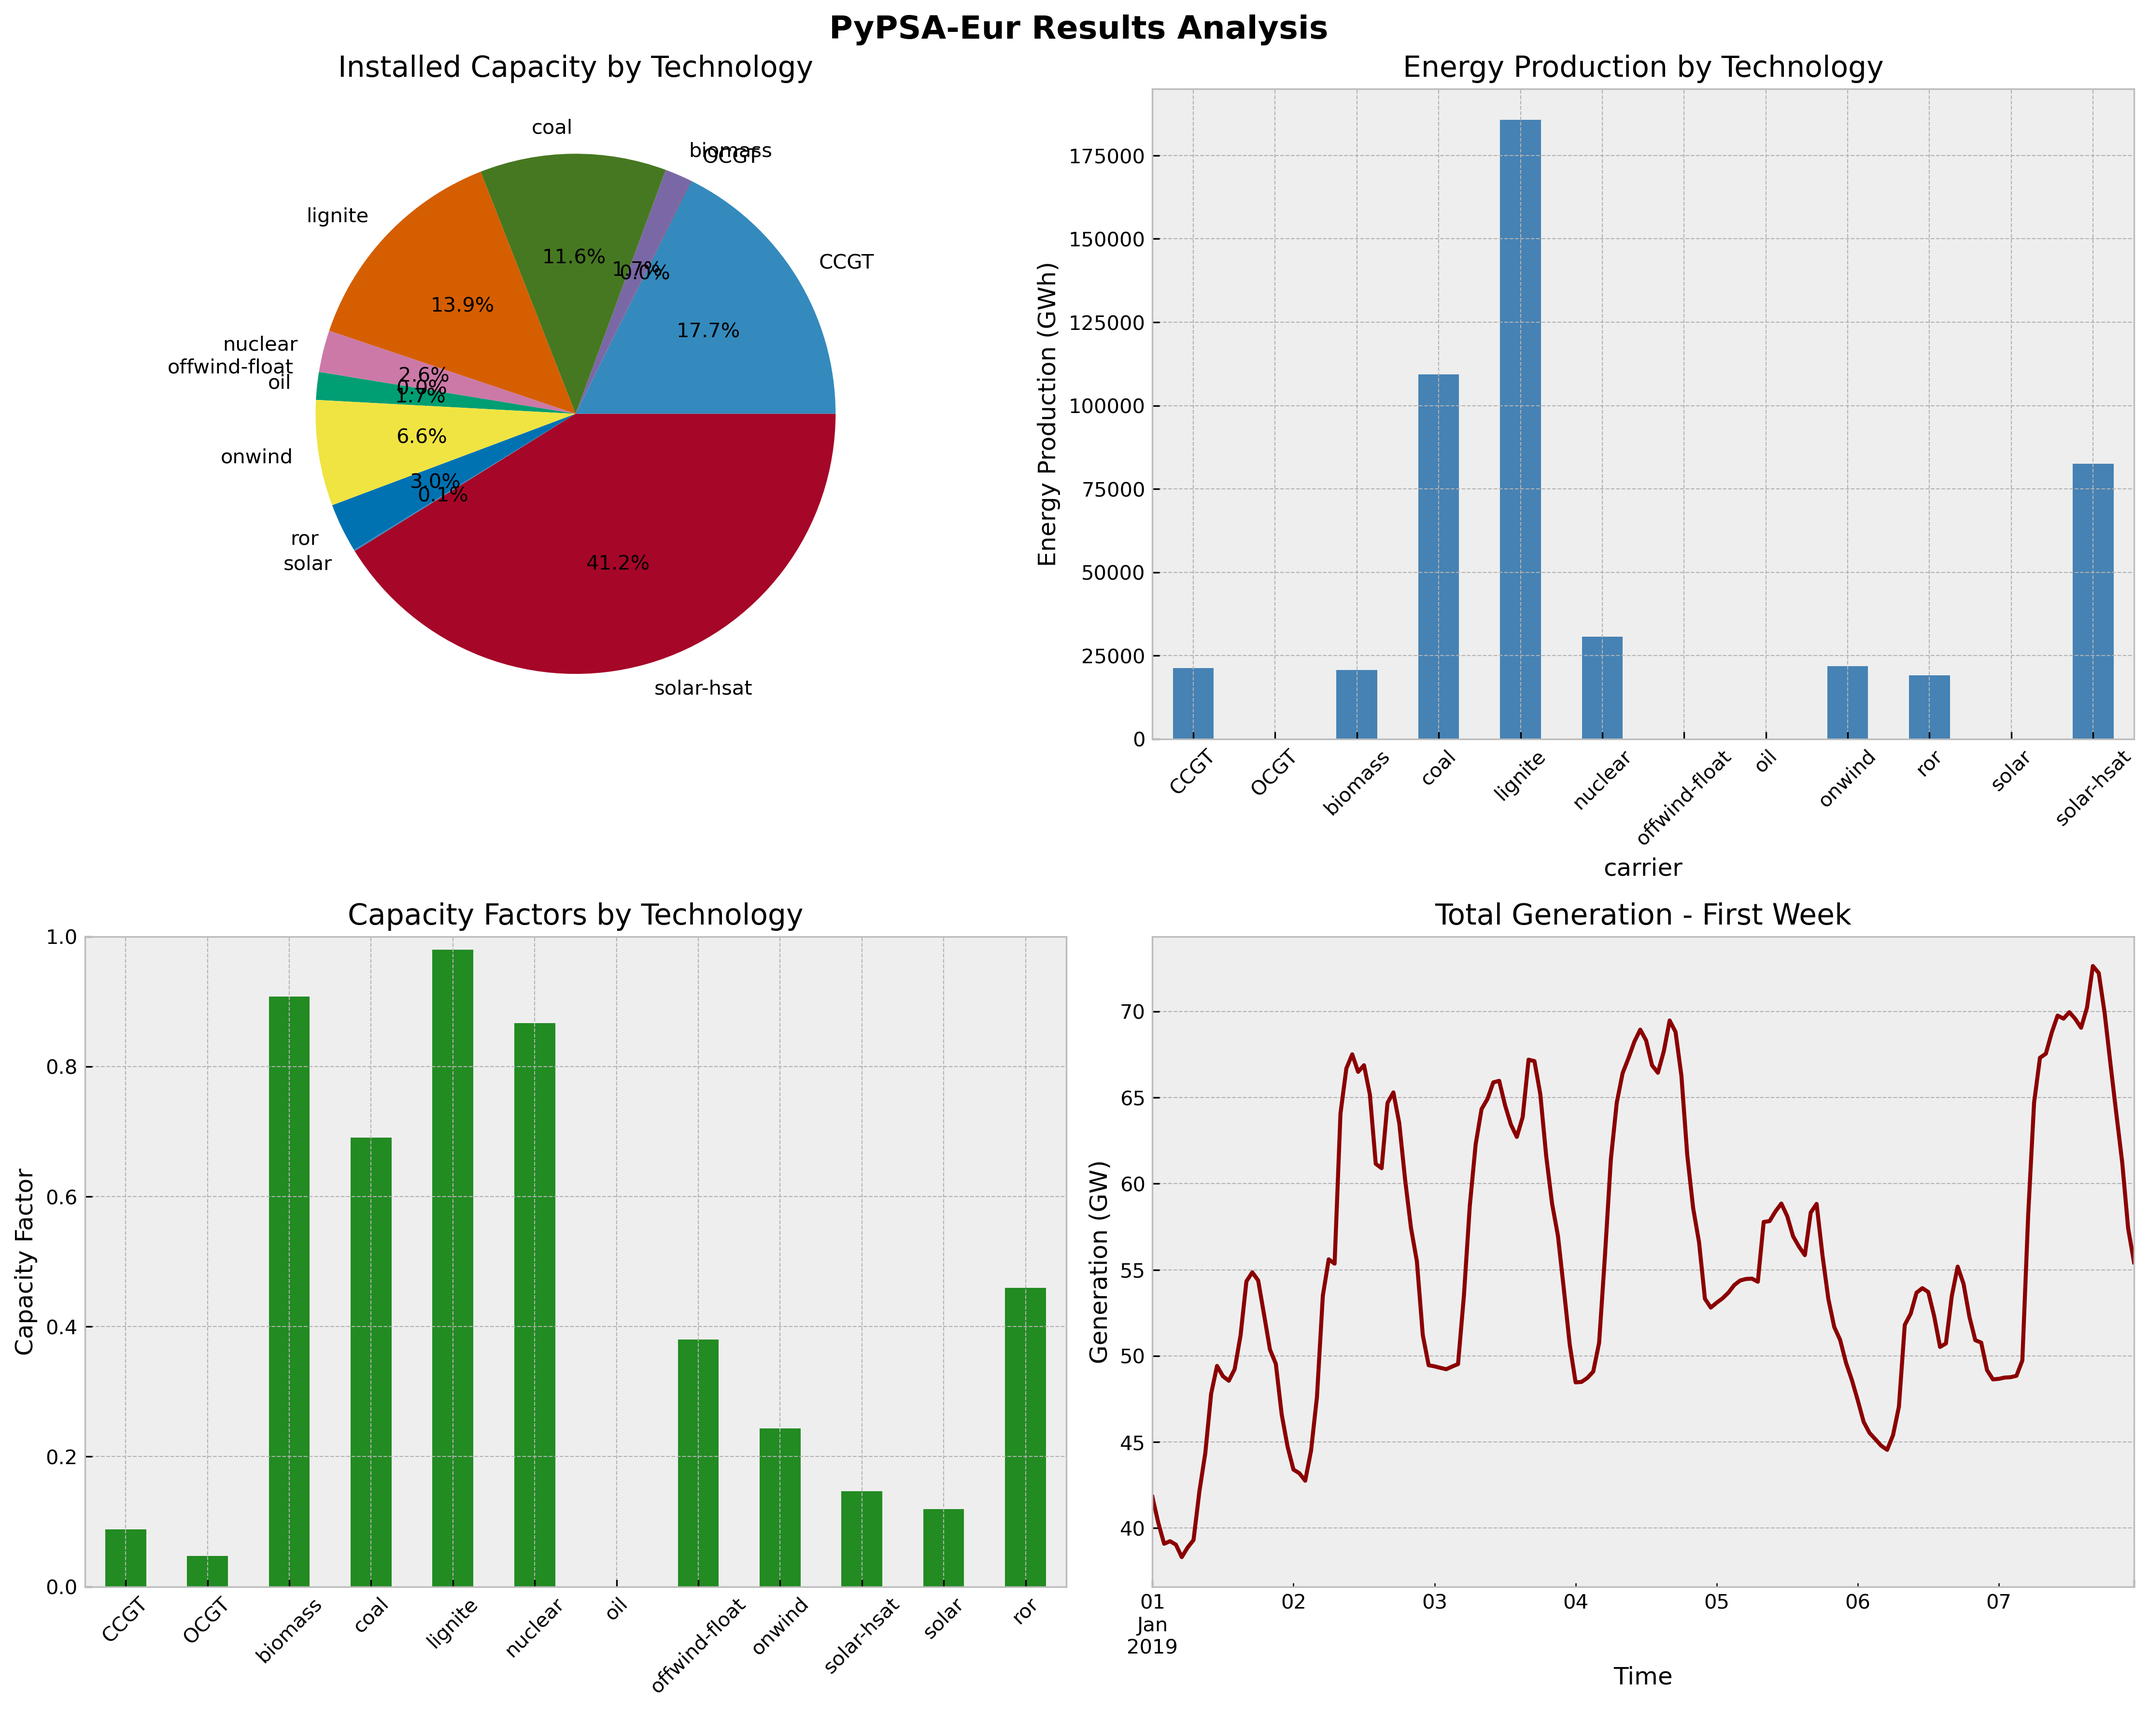
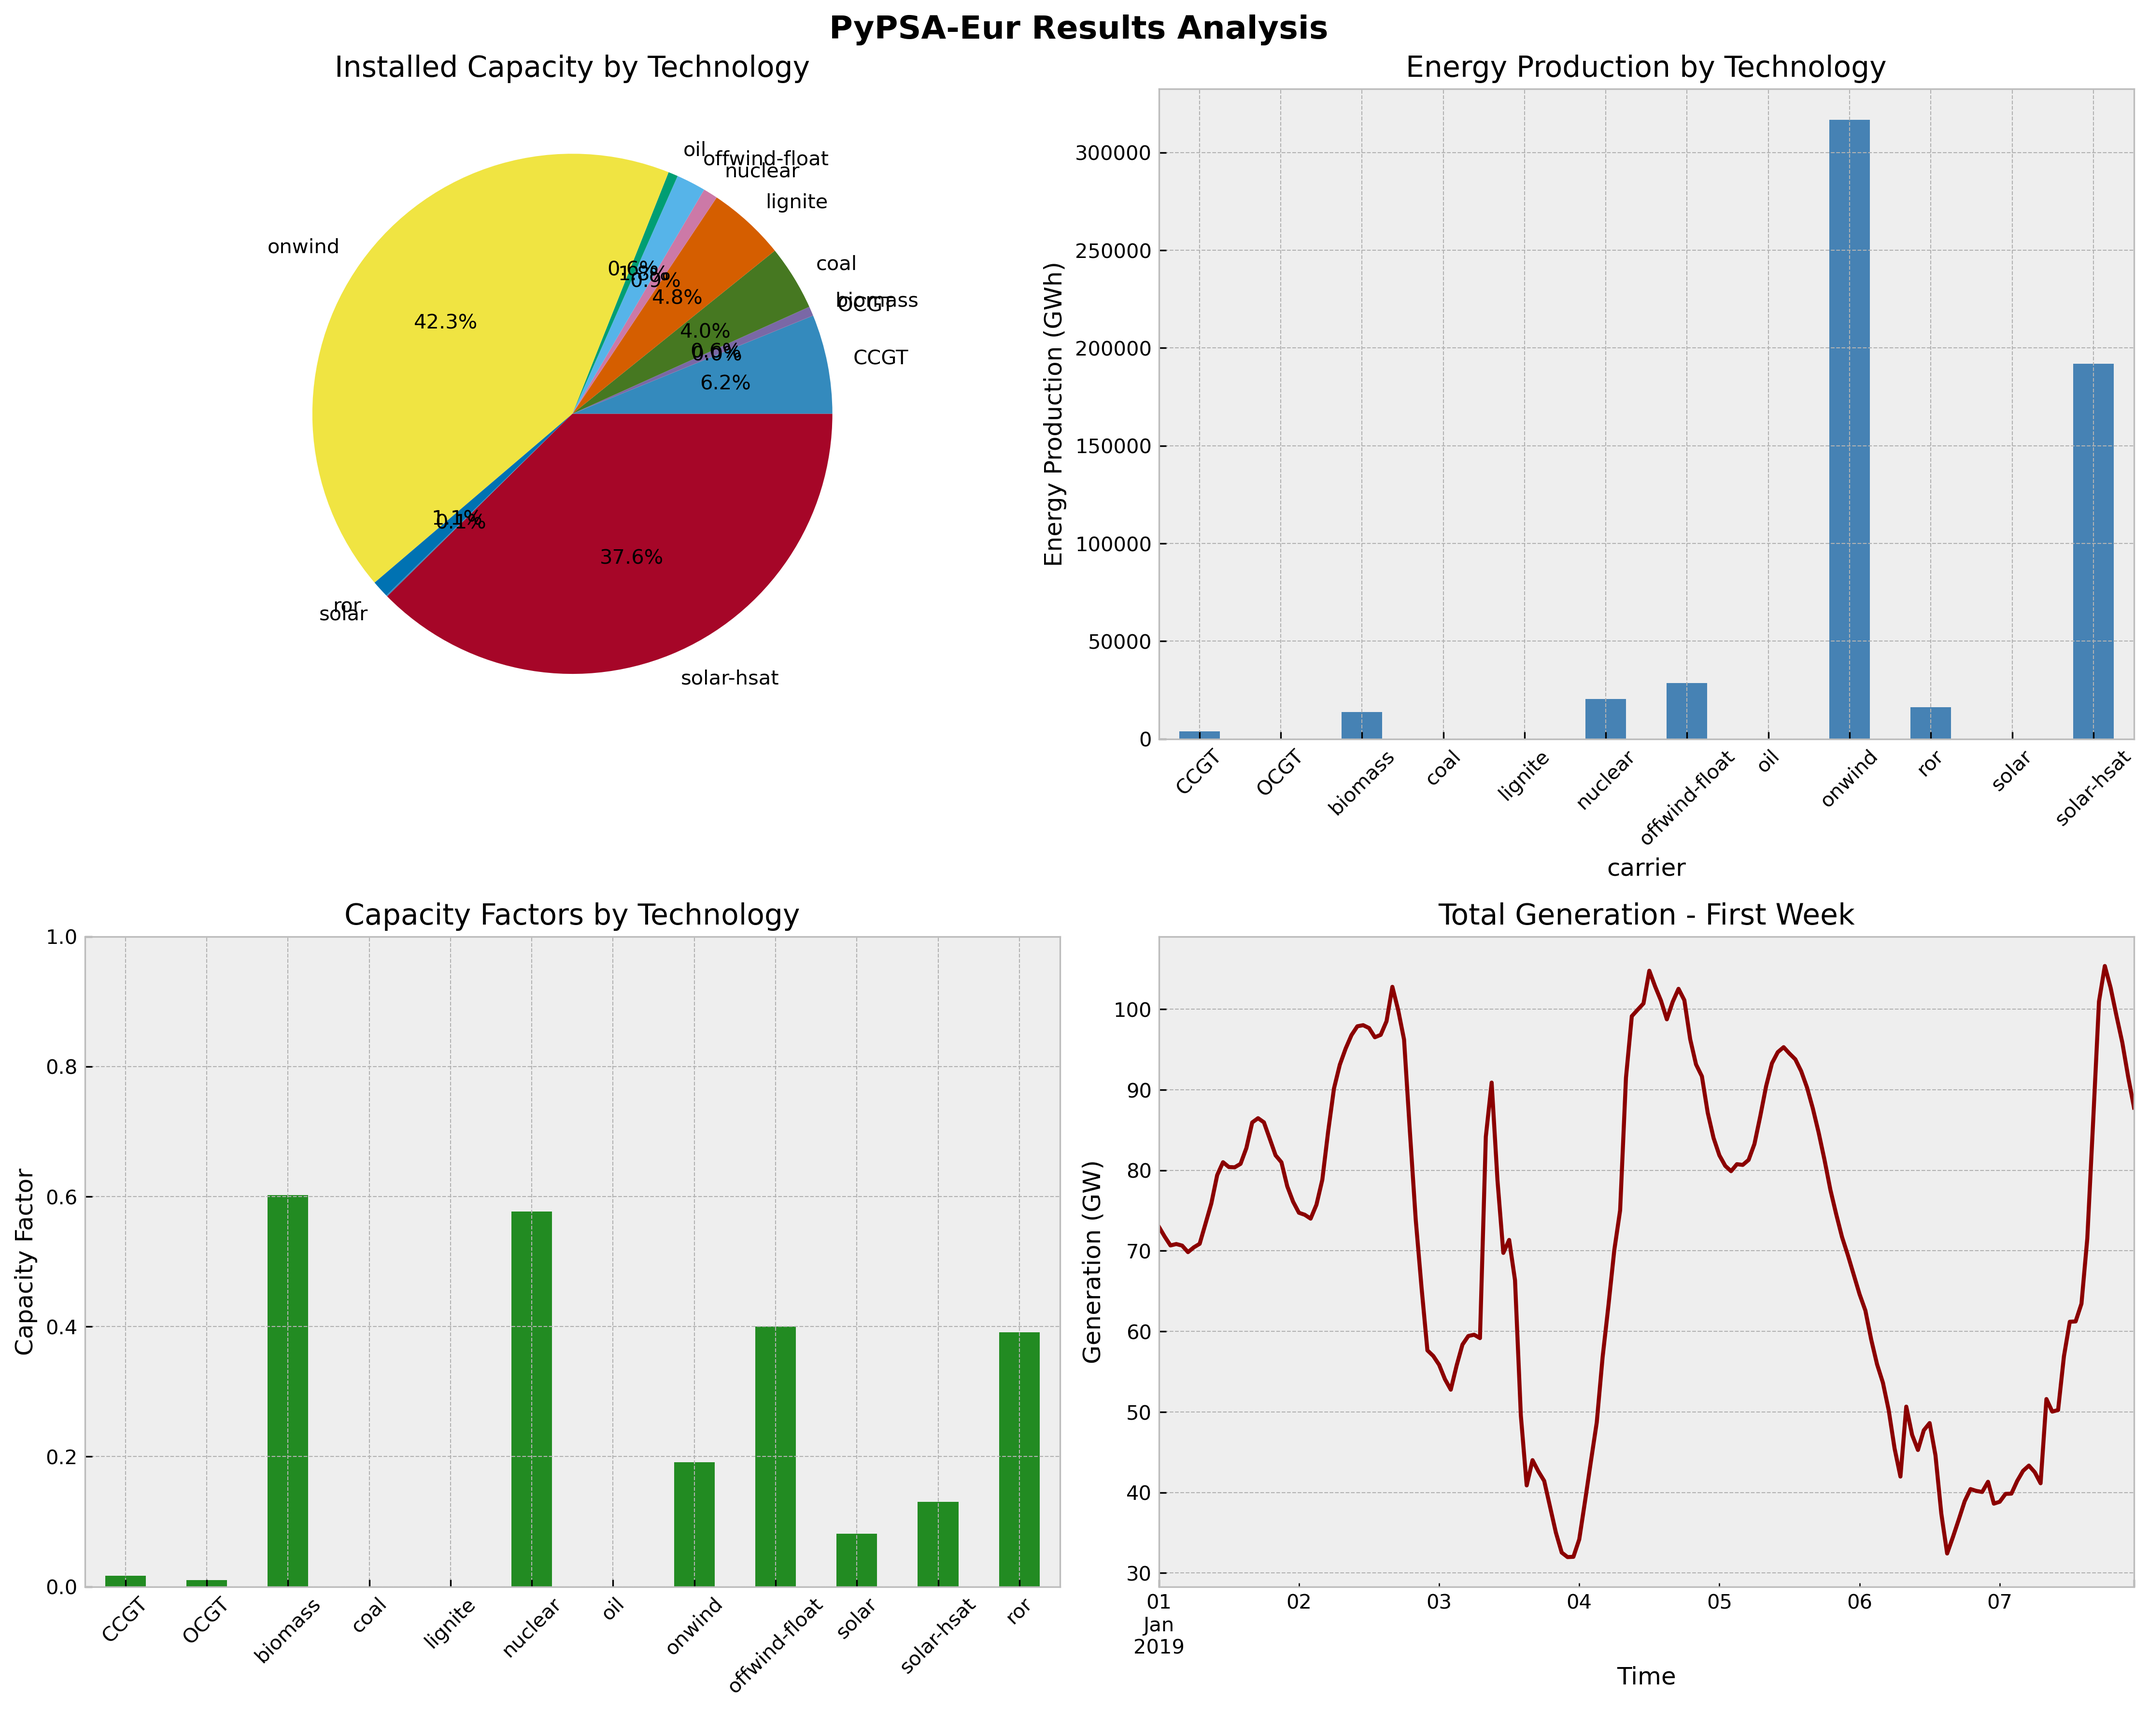
Add CO2 emissions analysis and update network visualization
- Add calculate_emissions.py script for CO2 emissions analysis
- Add inspect_constraints.py script for model constraint inspection
- Update visualize_results.py to point to Co2L0.001 scenario results
- Update pypsa_results_analysis.png with latest visualization
- Support analysis of strict CO2 constraint scenarios (0.1% of 1990 emissions)

diff --git a/calculate_emissions.py b/calculate_emissions.py
@@ -1,0 +1,161 @@
+#!/usr/bin/env python3
+"""
+CO2 Emissions Calculator for PyPSA Results
+==========================================
+
+This script calculates CO2 emissions from the solved PyPSA network
+"""
+
+import pypsa
+import pandas as pd
+import warnings
+warnings.filterwarnings('ignore')
+
+def load_network():
+    """Load the solved PyPSA network"""
+    network_path = "results/networks/base_s_1_elec_Co2L0.001.nc"
+    try:
+        n = pypsa.Network(network_path)
+        return n
+    except FileNotFoundError:
+        print(f"Network file not found at {network_path}")
+        return None
+
+def calculate_co2_emissions(n):
+    """Calculate CO2 emissions from generation"""
+    print("="*60)
+    print("CO2 EMISSIONS ANALYSIS")
+    print("="*60)
+    
+    # CO2 emission factors (kg CO2/MWh_th) - thermal energy input
+    co2_factors = {
+        'lignite': 1054,  # kg CO2/MWh_th
+        'coal': 820,      # kg CO2/MWh_th
+        'oil': 736,       # kg CO2/MWh_th
+        'CCGT': 490,      # kg CO2/MWh_th (natural gas)
+        'OCGT': 490,      # kg CO2/MWh_th (natural gas)
+        'nuclear': 0,     # No direct emissions
+        'biomass': 0,     # Considered CO2 neutral
+        'solar': 0,       # No emissions
+        'solar-hsat': 0,  # No emissions
+        'onwind': 0,      # No emissions
+        'offwind-ac': 0,  # No emissions
+        'offwind-dc': 0,  # No emissions
+        'offwind-float': 0, # No emissions
+        'hydro': 0,       # No emissions
+        'ror': 0,         # No emissions
+    }
+    
+    total_co2 = 0
+    co2_by_carrier = {}
+    
+    print("\nCO2 Emissions by Technology:")
+    print("-" * 50)
+    
+    for carrier in n.generators.carrier.unique():
+        if carrier in co2_factors:
+            # Get generators of this carrier
+            carrier_gens = n.generators[n.generators.carrier == carrier]
+            
+            if len(carrier_gens) > 0 and co2_factors[carrier] > 0:
+                # Get total generation for this carrier (MWh_el)
+                total_gen_el = n.generators_t.p[carrier_gens.index].sum().sum()
+                
+                # Convert to thermal energy using efficiency
+                efficiency = carrier_gens.efficiency.iloc[0] if len(carrier_gens) > 0 else 0.4
+                total_gen_th = total_gen_el / efficiency if efficiency > 0 else total_gen_el
+                
+                # Calculate CO2 emissions (kg CO2)
+                co2_emissions_kg = total_gen_th * co2_factors[carrier]
+                co2_emissions_mt = co2_emissions_kg / 1e9  # Convert to Mt CO2
+                
+                co2_by_carrier[carrier] = co2_emissions_mt
+                total_co2 += co2_emissions_mt
+                
+                print(f"{carrier:15s}: {co2_emissions_mt:8.2f} Mt CO2")
+            else:
+                co2_by_carrier[carrier] = 0
+                if carrier in ['lignite', 'coal', 'oil', 'CCGT', 'OCGT']:
+                    total_gen = n.generators_t.p[carrier_gens.index].sum().sum() if len(carrier_gens) > 0 else 0
+                    print(f"{carrier:15s}: {0:8.2f} Mt CO2 (Generation: {total_gen:.1f} MWh)")
+    
+    print("-" * 50)
+    print(f"{'TOTAL':15s}: {total_co2:8.2f} Mt CO2")
+    
+    # Check constraint
+    print(f"\nCO2 Constraint Check:")
+    print(f"- Total CO2 emissions: {total_co2:.2f} Mt")
+    print(f"- CO2 limit configured: 0.0 Mt")
+    if total_co2 > 0.01:  # Allow for small numerical errors
+        print("❌ CO2 CONSTRAINT VIOLATED!")
+        print("   The model did not achieve zero emissions.")
+    else:
+        print("✅ CO2 CONSTRAINT SATISFIED")
+        print("   Zero emissions achieved.")
+    
+    return co2_by_carrier, total_co2
+
+def check_co2_constraint_in_model(n):
+    """Check if CO2 constraints are actually in the model"""
+    print("\n" + "="*60)
+    print("MODEL CONSTRAINT ANALYSIS")
+    print("="*60)
+    
+    # Check if carriers have CO2 data
+    print(f"\nCarriers in network: {len(n.carriers)}")
+    if hasattr(n.carriers, 'co2_emissions'):
+        print("\nCO2 emissions data in carriers:")
+        for carrier, co2 in n.carriers.co2_emissions.items():
+            if co2 != 0:
+                print(f"  {carrier}: {co2} t CO2/MWh_th")
+        
+        if n.carriers.co2_emissions.sum() == 0:
+            print("⚠  WARNING: All carriers have zero CO2 emissions!")
+            print("   This suggests CO2 data might not be loaded correctly.")
+    else:
+        print("⚠  WARNING: No CO2 emissions data found in carriers!")
+        print("   CO2 constraints cannot work without emission factors.")
+    
+    # Check if there are any CO2 related constraints
+    constraints_info = []
+    if hasattr(n, '_constraints'):
+        for name, constraint in n._constraints.items():
+            if 'co2' in name.lower() or 'emission' in name.lower():
+                constraints_info.append(name)
+    
+    if constraints_info:
+        print(f"\nCO2-related constraints found: {constraints_info}")
+    else:
+        print(f"\n⚠  No CO2-related constraints found in the model!")
+
+def main():
+    """Main analysis function"""
+    print("PyPSA CO2 Emissions Analysis")
+    print("="*60)
+    
+    # Load network
+    n = load_network()
+    if n is None:
+        return
+    
+    # Calculate emissions
+    co2_by_carrier, total_co2 = calculate_co2_emissions(n)
+    
+    # Check model constraints
+    check_co2_constraint_in_model(n)
+    
+    print("\n" + "="*60)
+    print("SUMMARY")
+    print("="*60)
+    print(f"Total CO2 emissions: {total_co2:.2f} Mt CO2/year")
+    if total_co2 > 0.01:
+        print("❌ ZERO EMISSIONS TARGET NOT MET")
+        print("\nPossible issues:")
+        print("1. CO2 emission factors not loaded correctly")
+        print("2. CO2 constraint not properly enforced")
+        print("3. Model configuration error")
+    else:
+        print("✅ ZERO EMISSIONS TARGET ACHIEVED")
+
+if __name__ == "__main__":
+    main()

diff --git a/inspect_constraints.py b/inspect_constraints.py
@@ -1,0 +1,96 @@
+#!/usr/bin/env python3
+"""
+PyPSA Network Constraint Inspector
+=================================
+
+This script inspects the constraints and global constraints in the PyPSA network
+"""
+
+import pypsa
+import pandas as pd
+import warnings
+warnings.filterwarnings('ignore')
+
+def inspect_network_constraints():
+    """Inspect constraints in the PyPSA network"""
+    network_path = "results/networks/base_s_1_elec_Co2L0.001.nc"
+    print(f"Loading network from: {network_path}")
+    
+    try:
+        n = pypsa.Network(network_path)
+        print(f"Network loaded successfully!")
+        
+        print("\n" + "="*60)
+        print("GLOBAL CONSTRAINTS")
+        print("="*60)
+        
+        if hasattr(n, 'global_constraints') and len(n.global_constraints) > 0:
+            print(f"Found {len(n.global_constraints)} global constraints:")
+            print(n.global_constraints)
+            
+            # Check for CO2-related constraints
+            co2_constraints = n.global_constraints[n.global_constraints.index.str.contains('CO2|co2|emission', case=False)]
+            if len(co2_constraints) > 0:
+                print(f"\nCO2-related global constraints:")
+                for idx, row in co2_constraints.iterrows():
+                    print(f"  {idx}: {row['sense']} {row['constant']}")
+            else:
+                print("\n⚠  No CO2-related global constraints found!")
+        else:
+            print("⚠  No global constraints found in the model!")
+        
+        print("\n" + "="*60)
+        print("CARRIERS CO2 INFORMATION")
+        print("="*60)
+        
+        if hasattr(n.carriers, 'co2_emissions'):
+            co2_carriers = n.carriers[n.carriers.co2_emissions != 0]
+            if len(co2_carriers) > 0:
+                print("Carriers with CO2 emissions:")
+                for carrier, data in co2_carriers.iterrows():
+                    print(f"  {carrier}: {data['co2_emissions']:.4f} t CO2/MWh_th")
+            else:
+                print("No carriers with non-zero CO2 emissions found!")
+        
+        print("\n" + "="*60)
+        print("GENERATION SUMMARY")
+        print("="*60)
+        
+        # Get generation by carrier
+        generation = n.generators_t.p.sum()
+        generation_by_carrier = generation.groupby(n.generators.carrier).sum() / 1e3  # Convert to GWh
+        
+        print("Energy Production by Technology (GWh):")
+        for carrier, energy in generation_by_carrier.sort_values(ascending=False).items():
+            if energy > 0.1:  # Only show significant generation
+                print(f"  {carrier:15s}: {energy:10.1f} GWh")
+        
+        print("\n" + "="*60)
+        print("MODEL OBJECTIVE")
+        print("="*60)
+        print(f"Objective value: €{n.objective/1e9:.2f} billion")
+        
+        print("\n" + "="*60)
+        print("DIAGNOSTIC")
+        print("="*60)
+        
+        # Check if this is actually a CO2-constrained solution
+        fossil_generation = 0
+        for carrier in ['coal', 'lignite', 'CCGT', 'OCGT', 'oil']:
+            if carrier in generation_by_carrier:
+                fossil_generation += generation_by_carrier[carrier]
+        
+        print(f"Total fossil fuel generation: {fossil_generation:.1f} GWh")
+        
+        if fossil_generation > 1000:  # Significant fossil generation
+            print("❌ HIGH FOSSIL FUEL USAGE - CO2 constraint likely NOT active")
+        else:
+            print("✅ LOW FOSSIL FUEL USAGE - CO2 constraint likely active")
+            
+    except FileNotFoundError:
+        print(f"Network file not found at {network_path}")
+    except Exception as e:
+        print(f"Error loading network: {e}")
+
+if __name__ == "__main__":
+    inspect_network_constraints()

diff --git a/visualize_results.py b/visualize_results.py
@@ -19,7 +19,7 @@ plt.style.use('bmh')
 
 def load_network():
     """Load the solved PyPSA network"""
-    network_path = "../resources/networks/base_s_1_elec_.nc"
+    network_path = "results/networks/base_s_1_elec_Co2L0.001.nc"
     print(f"Loading network from: {network_path}")
     
     try:
